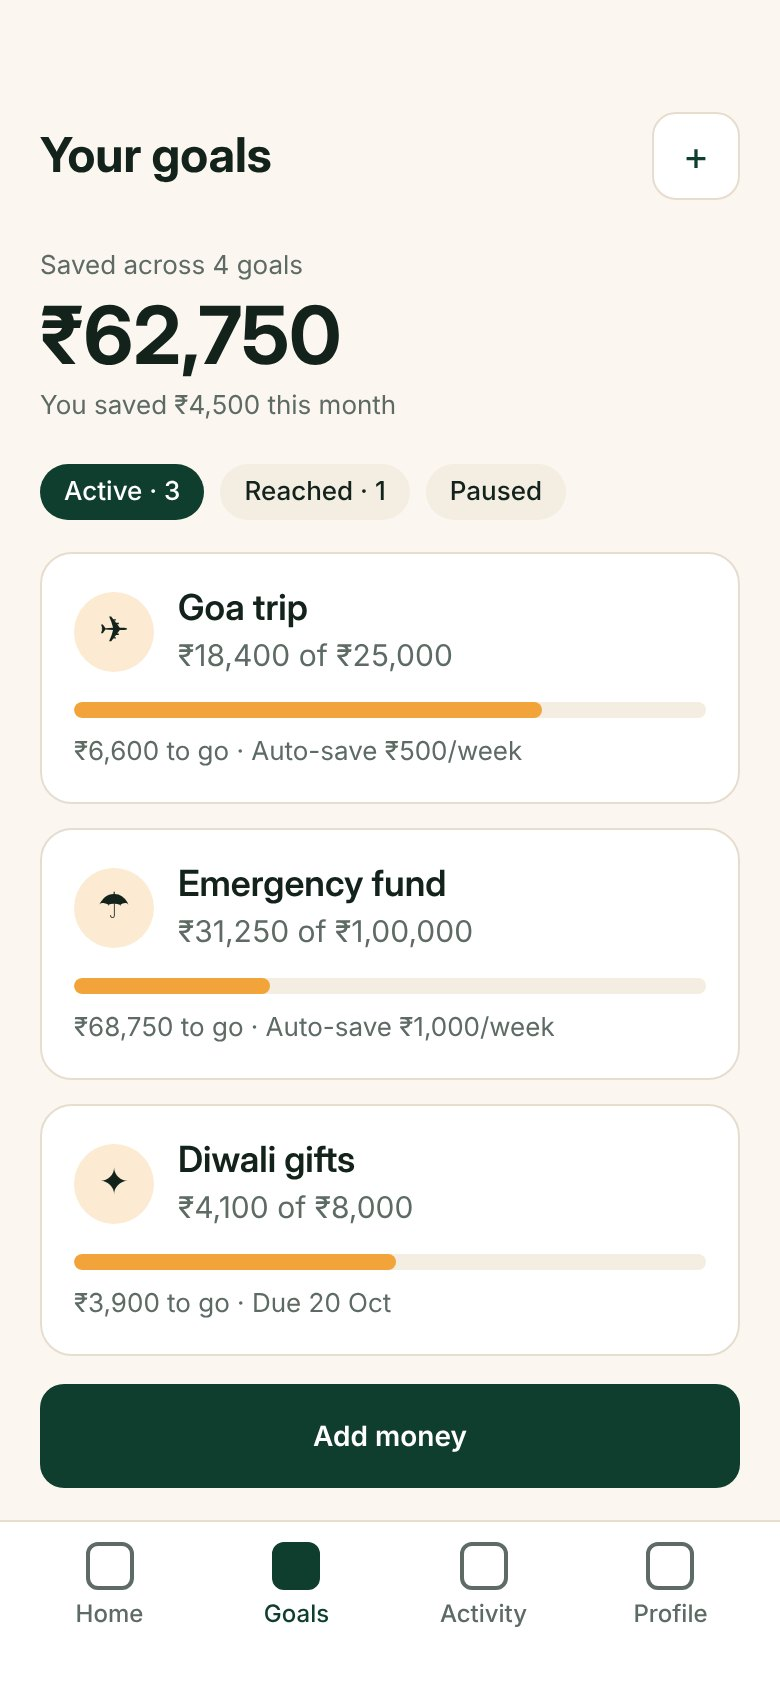
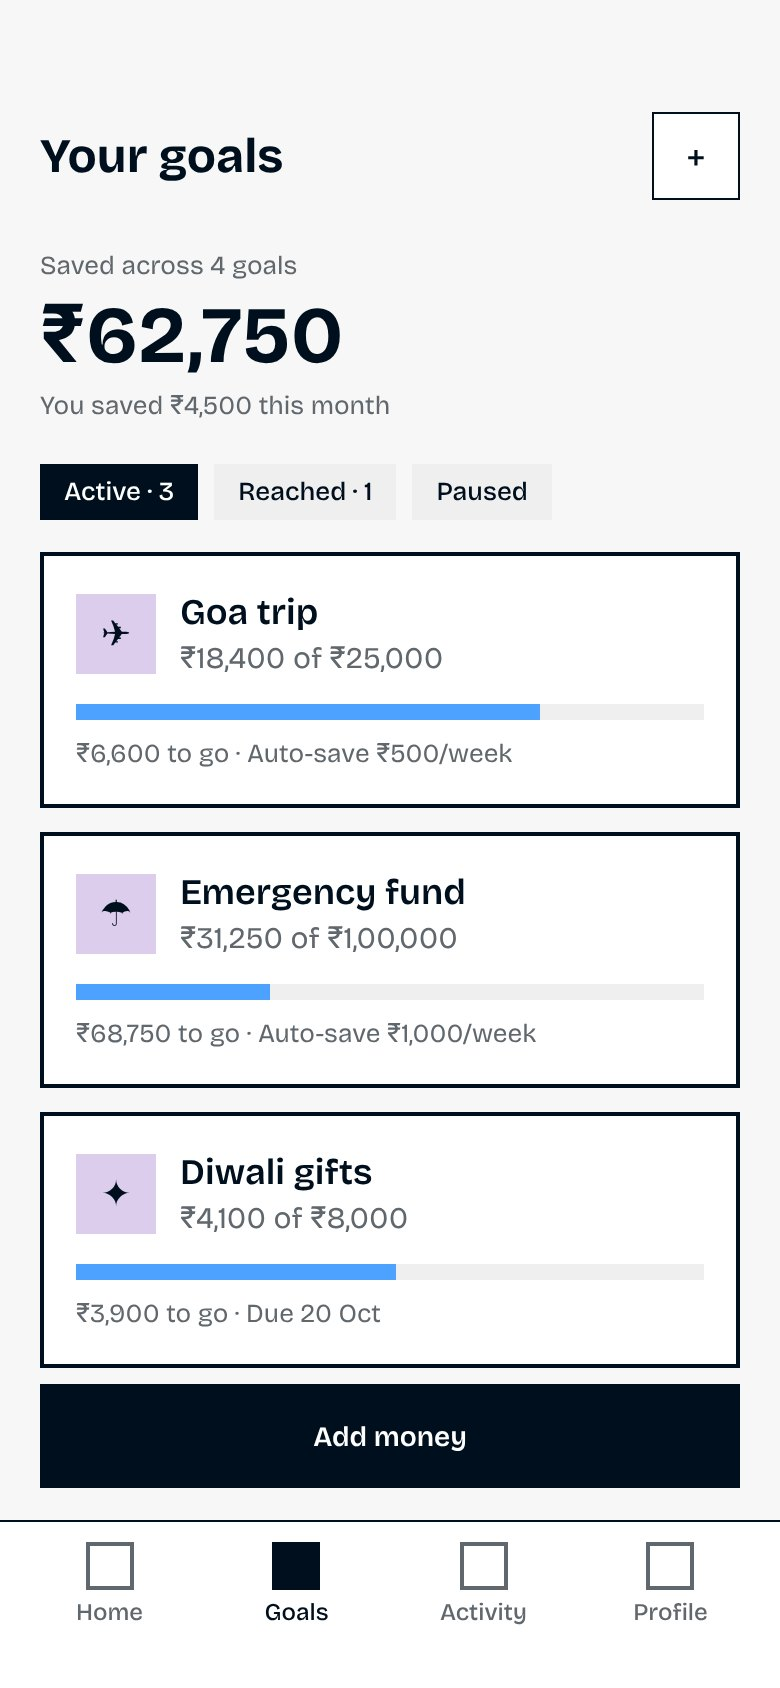
Restyle example screenshots to match site style
Claude-Session: https://claude.ai/code/session_018G6zryn3bd4nQofcuZWRTv

diff --git a/index.html b/index.html
@@ -1,7 +1,7 @@
 <!doctype html><html lang="en"><head><meta charset="utf-8">
 <meta name="viewport" content="width=device-width, initial-scale=1">
 <title>Design in Claude — make Claude design screens that look like your product</title><link rel="canonical" href="https://designinclaude.com/"><meta name="description" content="Six Claude skills and a Level 0 → 100 course for product designers. Encode your design system once; every screen after that is on-brand.">
-<meta property="og:title" content="Design in Claude — make Claude design screens that look like your product"><meta property="og:type" content="website"><meta property="og:image" content="https://designinclaude.com/assets/img/states.jpg"><meta name="twitter:card" content="summary_large_image"><meta property="og:description" content="Six Claude skills and a Level 0 → 100 course for product designers. Encode your design system once; every screen after that is on-brand.">
+<meta property="og:title" content="Design in Claude — make Claude design screens that look like your product"><meta property="og:type" content="website"><meta property="og:image" content="https://designinclaude.com/assets/img/states.jpg?v=2"><meta name="twitter:card" content="summary_large_image"><meta property="og:description" content="Six Claude skills and a Level 0 → 100 course for product designers. Encode your design system once; every screen after that is on-brand.">
 <link rel="preconnect" href="https://fonts.googleapis.com"><link rel="preconnect" href="https://fonts.gstatic.com" crossorigin>
 <link href="https://fonts.googleapis.com/css2?family=Bricolage+Grotesque:opsz,wght@12..96,400;12..96,500;12..96,600;12..96,700&family=JetBrains+Mono:wght@400&display=swap" rel="stylesheet">
 <link rel="stylesheet" href="assets/style.css?v=7"><link rel="icon" href="assets/favicon.svg">
@@ -48,10 +48,10 @@
 <h2>See it on a real product.</h2>
 <p class="sub">Saffron is a fictional Indian savings app used throughout the course. One request — “design the Goals tab” — and everything else came from its encoded design system.</p>
 <div class="gallery">
-<figure><img src="assets/img/goals.jpg" alt="Saffron Goals screen"><figcaption>&lt;screen-builder&gt; Goals tab</figcaption></figure>
+<figure><img src="assets/img/goals.jpg?v=2" alt="Saffron Goals screen"><figcaption>&lt;screen-builder&gt; Goals tab</figcaption></figure>
 <div style="display:grid;gap:24px">
-<figure><img src="assets/img/states.jpg" alt="Add money sheet in four states"><figcaption>&lt;screen-builder&gt; one brief → four states</figcaption></figure>
-<figure><img src="assets/img/review.jpg" alt="Review page"><figcaption>&lt;review-shell&gt; stakeholders comment by screen and state</figcaption></figure>
+<figure><img src="assets/img/states.jpg?v=2" alt="Add money sheet in four states"><figcaption>&lt;screen-builder&gt; one brief → four states</figcaption></figure>
+<figure><img src="assets/img/review.jpg?v=2" alt="Review page"><figcaption>&lt;review-shell&gt; stakeholders comment by screen and state</figcaption></figure>
 </div></div></div></section>
 
 <section id="levels"><div class="wrap sec">

diff --git a/learn/1-why-ai-ui-looks-generic.html b/learn/1-why-ai-ui-looks-generic.html
@@ -1,7 +1,7 @@
 <!doctype html><html lang="en"><head><meta charset="utf-8">
 <meta name="viewport" content="width=device-width, initial-scale=1">
 <title>What is Claude, what is design, and why AI designs all look the same · Design in Claude</title><link rel="canonical" href="https://designinclaude.com/learn/1-why-ai-ui-looks-generic.html"><meta name="description" content="Start from zero: what Claude is, what an app designer does, and the one idea this whole course is built on.">
-<meta property="og:title" content="What is Claude, what is design, and why AI designs all look the same · Design in Claude"><meta property="og:type" content="website"><meta property="og:image" content="https://designinclaude.com/assets/img/states.jpg"><meta name="twitter:card" content="summary_large_image"><meta property="og:description" content="Start from zero: what Claude is, what an app designer does, and the one idea this whole course is built on.">
+<meta property="og:title" content="What is Claude, what is design, and why AI designs all look the same · Design in Claude"><meta property="og:type" content="website"><meta property="og:image" content="https://designinclaude.com/assets/img/states.jpg?v=2"><meta name="twitter:card" content="summary_large_image"><meta property="og:description" content="Start from zero: what Claude is, what an app designer does, and the one idea this whole course is built on.">
 <link rel="preconnect" href="https://fonts.googleapis.com"><link rel="preconnect" href="https://fonts.gstatic.com" crossorigin>
 <link href="https://fonts.googleapis.com/css2?family=Bricolage+Grotesque:opsz,wght@12..96,400;12..96,500;12..96,600;12..96,700&family=JetBrains+Mono:wght@400&display=swap" rel="stylesheet">
 <link rel="stylesheet" href="../assets/style.css?v=7"><link rel="icon" href="../assets/favicon.svg">
@@ -39,7 +39,7 @@
 
 <h2>See the difference</h2>
 <p>This screen is from a pretend savings app called <strong>Saffron</strong> that we use throughout the course. The only message typed was “design the Goals tab”. The cream background, the dark green button, the rupee amounts, the friendly words — all of it came from Saffron's rulebook.</p>
-<figure><img src="../assets/img/goals.jpg" alt="Saffron Goals screen designed from its rulebook" style="max-width:360px"><figcaption>One short message. Everything else came from the rulebook.</figcaption></figure>
+<figure><img src="../assets/img/goals.jpg?v=2" alt="Saffron Goals screen designed from its rulebook" style="max-width:360px"><figcaption>One short message. Everything else came from the rulebook.</figcaption></figure>
 
 <h2>The road ahead: Level 0 → 100</h2>
 <ol class="steps">

diff --git a/learn/6-handoff-and-team-rollout.html b/learn/6-handoff-and-team-rollout.html
@@ -1,7 +1,7 @@
 <!doctype html><html lang="en"><head><meta charset="utf-8">
 <meta name="viewport" content="width=device-width, initial-scale=1">
 <title>Hand your design to engineers (and share it with your team) · Design in Claude</title><link rel="canonical" href="https://designinclaude.com/learn/6-handoff-and-team-rollout.html"><meta name="description" content="Explain your design so engineers can build it exactly right, and let your whole team use the same rulebook.">
-<meta property="og:title" content="Hand your design to engineers (and share it with your team) · Design in Claude"><meta property="og:type" content="website"><meta property="og:image" content="https://designinclaude.com/assets/img/states.jpg"><meta name="twitter:card" content="summary_large_image"><meta property="og:description" content="Explain your design so engineers can build it exactly right, and let your whole team use the same rulebook.">
+<meta property="og:title" content="Hand your design to engineers (and share it with your team) · Design in Claude"><meta property="og:type" content="website"><meta property="og:image" content="https://designinclaude.com/assets/img/states.jpg?v=2"><meta name="twitter:card" content="summary_large_image"><meta property="og:description" content="Explain your design so engineers can build it exactly right, and let your whole team use the same rulebook.">
 <link rel="preconnect" href="https://fonts.googleapis.com"><link rel="preconnect" href="https://fonts.gstatic.com" crossorigin>
 <link href="https://fonts.googleapis.com/css2?family=Bricolage+Grotesque:opsz,wght@12..96,400;12..96,500;12..96,600;12..96,700&family=JetBrains+Mono:wght@400&display=swap" rel="stylesheet">
 <link rel="stylesheet" href="../assets/style.css?v=7"><link rel="icon" href="../assets/favicon.svg">

diff --git a/learn/index.html b/learn/index.html
@@ -1,7 +1,7 @@
 <!doctype html><html lang="en"><head><meta charset="utf-8">
 <meta name="viewport" content="width=device-width, initial-scale=1">
 <title>Learn to design in Claude, from Level 0 to 100</title><link rel="canonical" href="https://designinclaude.com/learn/"><meta name="description" content="Seven lessons: from generic AI output to encoding your design system, building screens, critique, flows, handoff and your own tools.">
-<meta property="og:title" content="Learn to design in Claude, from Level 0 to 100"><meta property="og:type" content="website"><meta property="og:image" content="https://designinclaude.com/assets/img/states.jpg"><meta name="twitter:card" content="summary_large_image"><meta property="og:description" content="Seven lessons: from generic AI output to encoding your design system, building screens, critique, flows, handoff and your own tools.">
+<meta property="og:title" content="Learn to design in Claude, from Level 0 to 100"><meta property="og:type" content="website"><meta property="og:image" content="https://designinclaude.com/assets/img/states.jpg?v=2"><meta name="twitter:card" content="summary_large_image"><meta property="og:description" content="Seven lessons: from generic AI output to encoding your design system, building screens, critique, flows, handoff and your own tools.">
 <link rel="preconnect" href="https://fonts.googleapis.com"><link rel="preconnect" href="https://fonts.gstatic.com" crossorigin>
 <link href="https://fonts.googleapis.com/css2?family=Bricolage+Grotesque:opsz,wght@12..96,400;12..96,500;12..96,600;12..96,700&family=JetBrains+Mono:wght@400&display=swap" rel="stylesheet">
 <link rel="stylesheet" href="../assets/style.css?v=7"><link rel="icon" href="../assets/favicon.svg">

diff --git a/learn/4-critique-like-a-design-lead.html b/learn/4-critique-like-a-design-lead.html
@@ -1,7 +1,7 @@
 <!doctype html><html lang="en"><head><meta charset="utf-8">
 <meta name="viewport" content="width=device-width, initial-scale=1">
 <title>Learn to spot what's wrong with a design · Design in Claude</title><link rel="canonical" href="https://designinclaude.com/learn/4-critique-like-a-design-lead.html"><meta name="description" content="See a screen like a senior designer does: find the real problems, sort them by importance, and fix them.">
-<meta property="og:title" content="Learn to spot what's wrong with a design · Design in Claude"><meta property="og:type" content="website"><meta property="og:image" content="https://designinclaude.com/assets/img/states.jpg"><meta name="twitter:card" content="summary_large_image"><meta property="og:description" content="See a screen like a senior designer does: find the real problems, sort them by importance, and fix them.">
+<meta property="og:title" content="Learn to spot what's wrong with a design · Design in Claude"><meta property="og:type" content="website"><meta property="og:image" content="https://designinclaude.com/assets/img/states.jpg?v=2"><meta name="twitter:card" content="summary_large_image"><meta property="og:description" content="See a screen like a senior designer does: find the real problems, sort them by importance, and fix them.">
 <link rel="preconnect" href="https://fonts.googleapis.com"><link rel="preconnect" href="https://fonts.gstatic.com" crossorigin>
 <link href="https://fonts.googleapis.com/css2?family=Bricolage+Grotesque:opsz,wght@12..96,400;12..96,500;12..96,600;12..96,700&family=JetBrains+Mono:wght@400&display=swap" rel="stylesheet">
 <link rel="stylesheet" href="../assets/style.css?v=7"><link rel="icon" href="../assets/favicon.svg">

diff --git a/learn/2-encode-your-brand.html b/learn/2-encode-your-brand.html
@@ -1,7 +1,7 @@
 <!doctype html><html lang="en"><head><meta charset="utf-8">
 <meta name="viewport" content="width=device-width, initial-scale=1">
 <title>Make your app's rulebook and teach it to Claude · Design in Claude</title><link rel="canonical" href="https://designinclaude.com/learn/2-encode-your-brand.html"><meta name="description" content="Turn a few screenshots into a rulebook (a design-system skill) that Claude follows every time.">
-<meta property="og:title" content="Make your app's rulebook and teach it to Claude · Design in Claude"><meta property="og:type" content="website"><meta property="og:image" content="https://designinclaude.com/assets/img/states.jpg"><meta name="twitter:card" content="summary_large_image"><meta property="og:description" content="Turn a few screenshots into a rulebook (a design-system skill) that Claude follows every time.">
+<meta property="og:title" content="Make your app's rulebook and teach it to Claude · Design in Claude"><meta property="og:type" content="website"><meta property="og:image" content="https://designinclaude.com/assets/img/states.jpg?v=2"><meta name="twitter:card" content="summary_large_image"><meta property="og:description" content="Turn a few screenshots into a rulebook (a design-system skill) that Claude follows every time.">
 <link rel="preconnect" href="https://fonts.googleapis.com"><link rel="preconnect" href="https://fonts.gstatic.com" crossorigin>
 <link href="https://fonts.googleapis.com/css2?family=Bricolage+Grotesque:opsz,wght@12..96,400;12..96,500;12..96,600;12..96,700&family=JetBrains+Mono:wght@400&display=swap" rel="stylesheet">
 <link rel="stylesheet" href="../assets/style.css?v=7"><link rel="icon" href="../assets/favicon.svg">

diff --git a/learn/5-flows-and-reviews.html b/learn/5-flows-and-reviews.html
@@ -1,7 +1,7 @@
 <!doctype html><html lang="en"><head><meta charset="utf-8">
 <meta name="viewport" content="width=device-width, initial-scale=1">
 <title>Check the whole journey and get feedback · Design in Claude</title><link rel="canonical" href="https://designinclaude.com/learn/5-flows-and-reviews.html"><meta name="description" content="Make sure screens fit together, find the screens you forgot, and collect useful feedback from others.">
-<meta property="og:title" content="Check the whole journey and get feedback · Design in Claude"><meta property="og:type" content="website"><meta property="og:image" content="https://designinclaude.com/assets/img/states.jpg"><meta name="twitter:card" content="summary_large_image"><meta property="og:description" content="Make sure screens fit together, find the screens you forgot, and collect useful feedback from others.">
+<meta property="og:title" content="Check the whole journey and get feedback · Design in Claude"><meta property="og:type" content="website"><meta property="og:image" content="https://designinclaude.com/assets/img/states.jpg?v=2"><meta name="twitter:card" content="summary_large_image"><meta property="og:description" content="Make sure screens fit together, find the screens you forgot, and collect useful feedback from others.">
 <link rel="preconnect" href="https://fonts.googleapis.com"><link rel="preconnect" href="https://fonts.gstatic.com" crossorigin>
 <link href="https://fonts.googleapis.com/css2?family=Bricolage+Grotesque:opsz,wght@12..96,400;12..96,500;12..96,600;12..96,700&family=JetBrains+Mono:wght@400&display=swap" rel="stylesheet">
 <link rel="stylesheet" href="../assets/style.css?v=7"><link rel="icon" href="../assets/favicon.svg">

diff --git a/learn/3-design-screens-with-every-state.html b/learn/3-design-screens-with-every-state.html
@@ -1,7 +1,7 @@
 <!doctype html><html lang="en"><head><meta charset="utf-8">
 <meta name="viewport" content="width=device-width, initial-scale=1">
 <title>Make your first real screens · Design in Claude</title><link rel="canonical" href="https://designinclaude.com/learn/3-design-screens-with-every-state.html"><meta name="description" content="Ask for a screen in three simple lines — and get every version of it: empty, loading, error and success.">
-<meta property="og:title" content="Make your first real screens · Design in Claude"><meta property="og:type" content="website"><meta property="og:image" content="https://designinclaude.com/assets/img/states.jpg"><meta name="twitter:card" content="summary_large_image"><meta property="og:description" content="Ask for a screen in three simple lines — and get every version of it: empty, loading, error and success.">
+<meta property="og:title" content="Make your first real screens · Design in Claude"><meta property="og:type" content="website"><meta property="og:image" content="https://designinclaude.com/assets/img/states.jpg?v=2"><meta name="twitter:card" content="summary_large_image"><meta property="og:description" content="Ask for a screen in three simple lines — and get every version of it: empty, loading, error and success.">
 <link rel="preconnect" href="https://fonts.googleapis.com"><link rel="preconnect" href="https://fonts.gstatic.com" crossorigin>
 <link href="https://fonts.googleapis.com/css2?family=Bricolage+Grotesque:opsz,wght@12..96,400;12..96,500;12..96,600;12..96,700&family=JetBrains+Mono:wght@400&display=swap" rel="stylesheet">
 <link rel="stylesheet" href="../assets/style.css?v=7"><link rel="icon" href="../assets/favicon.svg">

diff --git a/learn/7-level-100-build-your-own-tools.html b/learn/7-level-100-build-your-own-tools.html
@@ -1,7 +1,7 @@
 <!doctype html><html lang="en"><head><meta charset="utf-8">
 <meta name="viewport" content="width=device-width, initial-scale=1">
 <title>Level 100: build your own design tools · Design in Claude</title><link rel="canonical" href="https://designinclaude.com/learn/7-level-100-build-your-own-tools.html"><meta name="description" content="Go past screens: build the little tools, trackers and templates you and your team wish existed.">
-<meta property="og:title" content="Level 100: build your own design tools · Design in Claude"><meta property="og:type" content="website"><meta property="og:image" content="https://designinclaude.com/assets/img/states.jpg"><meta name="twitter:card" content="summary_large_image"><meta property="og:description" content="Go past screens: build the little tools, trackers and templates you and your team wish existed.">
+<meta property="og:title" content="Level 100: build your own design tools · Design in Claude"><meta property="og:type" content="website"><meta property="og:image" content="https://designinclaude.com/assets/img/states.jpg?v=2"><meta name="twitter:card" content="summary_large_image"><meta property="og:description" content="Go past screens: build the little tools, trackers and templates you and your team wish existed.">
 <link rel="preconnect" href="https://fonts.googleapis.com"><link rel="preconnect" href="https://fonts.gstatic.com" crossorigin>
 <link href="https://fonts.googleapis.com/css2?family=Bricolage+Grotesque:opsz,wght@12..96,400;12..96,500;12..96,600;12..96,700&family=JetBrains+Mono:wght@400&display=swap" rel="stylesheet">
 <link rel="stylesheet" href="../assets/style.css?v=7"><link rel="icon" href="../assets/favicon.svg">
